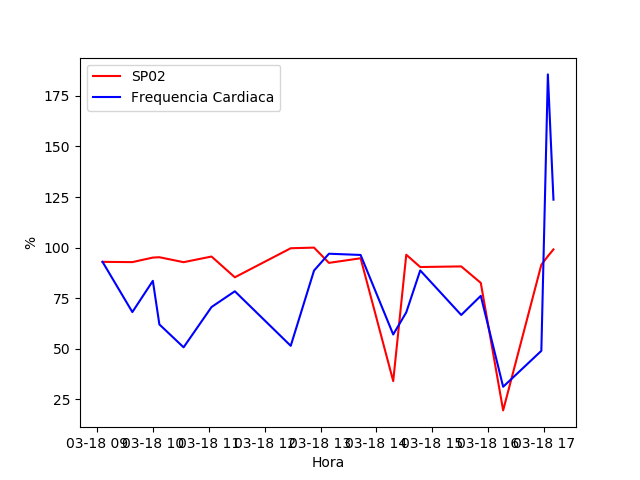
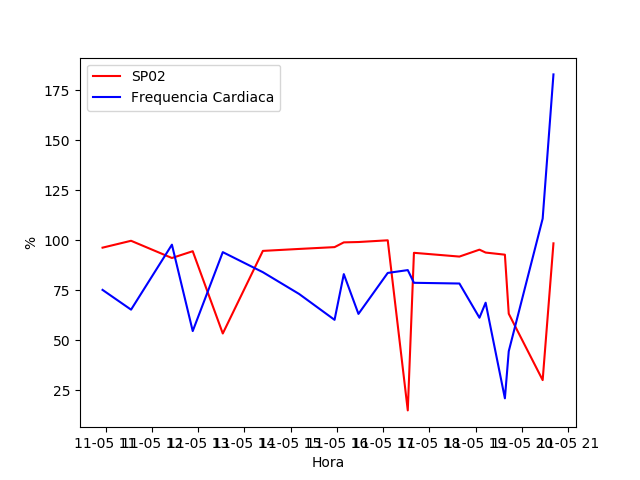
melhoria na geração das datas

diff --git a/utils/PA.py b/utils/PA.py
@@ -14,13 +14,8 @@ def PA(qtValores, minMinutos, MaxMinutos):
 
     minutes = 0
     today = datetime.today()
-    mes = random.randint(1, 12)
-    dia = random.randint(1, 30)
+    date = datetime(today.year, today.month, today.day, random.randint(6, 10), random.randint(0, 59), 0)
 
-    if (mes == 2 and dia >= 28):
-        dia = 28
-
-    date = datetime(today.year, mes, dia, random.randint(6, 10), random.randint(0, 59), 0)
     # Gerando os valores normais
     sistolicaNormal = np.random.randint(110, 129, normais)
     diastolicaNormal = np.random.randint(70, 84, normais)

diff --git a/utils/TC.py b/utils/TC.py
@@ -12,13 +12,7 @@ def TemperaturaCorporal(qtValores, minMinutos, MaxMinutos):
 
     minutes = 0
     today = datetime.today()
-    mes = random.randint(1, 12)
-    dia = random.randint(1, 30)
-
-    if (mes == 2 and dia >= 28):
-        dia = 28
-
-    date = datetime(today.year, mes, dia, random.randint(6, 10), random.randint(0, 59), 0)
+    date = datetime(today.year, today.month, today.day, random.randint(6, 10), random.randint(0, 59), 0)
 
     # Gerando os valores normais
     valoresNormais = np.random.uniform(36, 37.5, normais)

diff --git a/utils/SP02.py b/utils/SP02.py
@@ -29,13 +29,8 @@ def SP02(qtValores, minMinutos, MaxMinutos):
 
     minutes = 0
     today = datetime.today()
-    mes = random.randint(1, 12)
-    dia = random.randint(1, 30)
 
-    if (mes == 2 and dia >= 28):
-        dia = 28
-
-    date = datetime(today.year, mes, dia, random.randint(6, 10), random.randint(0, 59), 0)
+    date = datetime(today.year, today.month, today.day, random.randint(6, 10), random.randint(0, 59), 0)
 
     # Gerando os valores normais
     valoresNormais = np.random.uniform(90, 100, normais)
